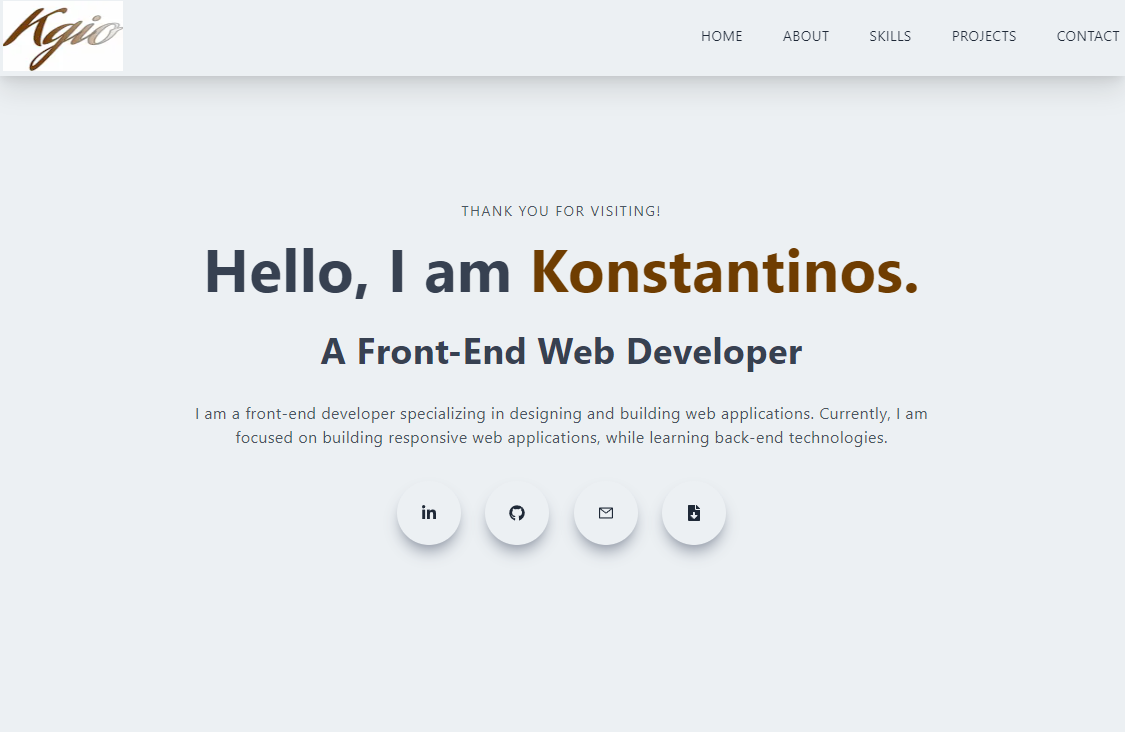
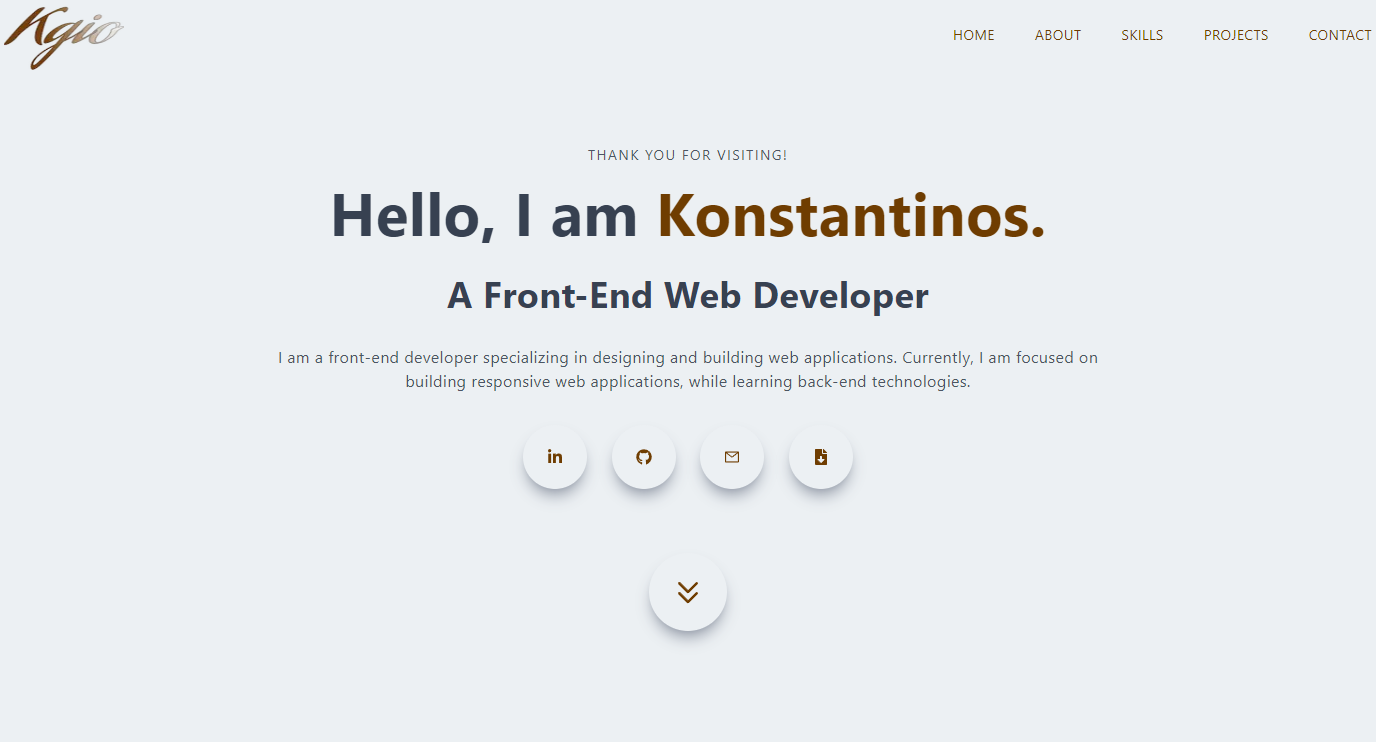
Update portfolio next.js screenshot

diff --git a/components/Main.jsx b/components/Main.jsx
@@ -8,7 +8,7 @@ const Main = () => {
   return (
     <div id='main' className='w-full h-screen text-center'>
         <div className='max-w-[1240px] w-full h-full mx-auto p-2 flex justify-center items-center'>
-            <div> 
+            <div className='mt-16'> 
                 <p className='uppercase text-sm tracking-widest text-gray-600'>Thank you for visiting!</p>
                 <h1 className='py-4 text-gray-700'>
                   Hello, I am <span className='text-[#6f3d01]'>Konstantinos.</span>
